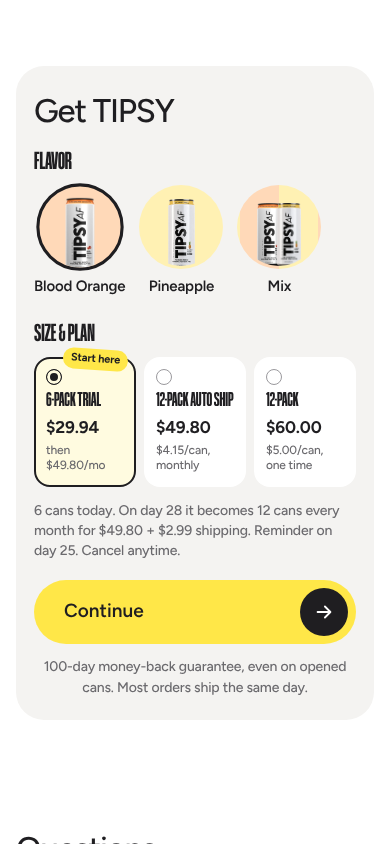
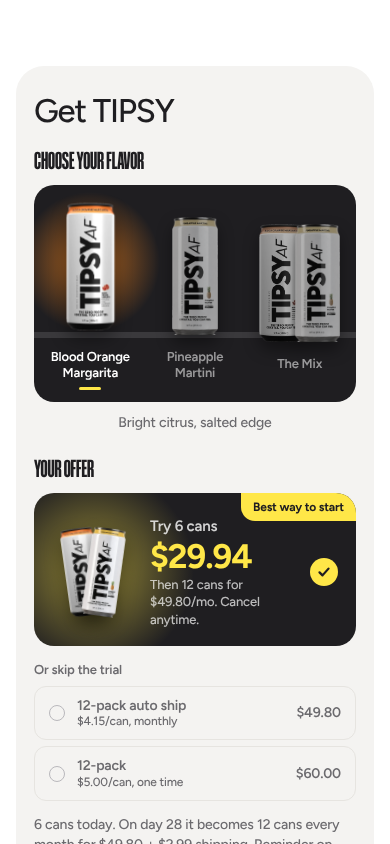
v3: dark shelf flavor picker as default, with motion
Cans rise onto the shelf when the buy box scrolls in or the checkout
opens; switching flavors pops the can, flares the glow, ripples a ring
and slides the underline; the chosen can floats. Respects reduced motion.
Removes the preview design switcher.

Claude-Session: https://claude.ai/code/session_014FM66vq5zwtojFZzRdgT7G

diff --git a/tipsy-af-v3/preview/index.html b/tipsy-af-v3/preview/index.html
@@ -635,13 +635,14 @@ body { margin: 0; background: #fff; }
 .tpm-shelf__opt { position: relative; display: block; cursor: pointer; }
 .tpm-shelf__box { position: relative; display: grid; justify-items: center; text-align: center; padding-bottom: 12px; }
 .tpm-shelf__box::before { content: ""; position: absolute; left: 50%; bottom: 70px; width: 140px; height: 140px; margin-left: -70px; border-radius: 50%; background: radial-gradient(closest-side, var(--f-deep), rgba(0,0,0,0)); opacity: 0; transition: opacity .25s; }
-.tpm-shelf__img { position: relative; z-index: 1; height: 132px; display: flex; align-items: flex-end; justify-content: center; transition: transform .3s cubic-bezier(.3,1.5,.5,1), filter .25s; filter: grayscale(.6) brightness(.7); }
+.tpm-shelf__img { position: relative; z-index: 1; height: 132px; display: flex; align-items: flex-end; justify-content: center; transition: translate .35s cubic-bezier(.3,1.5,.5,1), scale .35s cubic-bezier(.3,1.5,.5,1), filter .3s; filter: grayscale(.6) brightness(.7); }
 .tpm-shelf__img > img, .tpm-shelf__img .tpm-can-pair img { height: 118px; width: auto; filter: drop-shadow(0 8px 8px rgba(0,0,0,.4)); }
 .tpm-shelf__name { position: relative; z-index: 1; margin-top: 14px; min-height: 34px; font-size: 13px; font-weight: 600; line-height: 1.25; color: rgba(255,255,255,.55); padding: 0 4px; }
 .tpm-shelf__opt input:checked + .tpm-shelf__box::before { opacity: .7; }
-.tpm-shelf__opt input:checked + .tpm-shelf__box .tpm-shelf__img { transform: translateY(-10px) scale(1.08); filter: none; }
+.tpm-shelf__opt input:checked + .tpm-shelf__box .tpm-shelf__img { translate: 0 -10px; scale: 1.08; filter: none; }
 .tpm-shelf__opt input:checked + .tpm-shelf__box .tpm-shelf__name { color: #fff; }
-.tpm-shelf__opt input:checked + .tpm-shelf__box .tpm-shelf__name::after { content: ""; display: block; width: 22px; height: 3px; border-radius: 3px; background: var(--tpm-accent); margin: 6px auto 0; }
+.tpm-shelf__name::after { content: ""; display: block; width: 0; height: 3px; border-radius: 3px; background: var(--tpm-accent); margin: 6px auto 0; transition: width .3s cubic-bezier(.3,1.5,.5,1); }
+.tpm-shelf__opt input:checked + .tpm-shelf__box .tpm-shelf__name::after { width: 22px; }
 .tpm-shelf__note { margin-top: 10px; font-size: 14px; color: var(--tpm-muted); text-align: center; }
 
 /* 3. Pop: full-color cards, can breaking out of the top */
@@ -700,6 +701,40 @@ body { margin: 0; background: #fff; }
 .tpm-flav--shelflight .tpm-shelf__name { color: #a49d91; }
 .tpm-flav--shelflight .tpm-shelf__opt input:checked + .tpm-shelf__box .tpm-shelf__name { color: var(--tpm-ink); }
 .tpm-flav--shelflight .tpm-shelf__opt input:checked + .tpm-shelf__box .tpm-shelf__name::after { background: var(--tpm-ink); }
+
+/* Shelf motion */
+.tpm-shelf__box::after { content: ""; position: absolute; left: 50%; bottom: 96px; width: 96px; height: 96px; margin-left: -48px; border-radius: 50%; border: 2px solid var(--f-deep); opacity: 0; pointer-events: none; }
+.tpm-shelf__note { transition: opacity .2s; }
+@media (prefers-reduced-motion: no-preference) {
+  /* Waiting to scroll into view */
+  .tpm-shelf.is-waiting .tpm-shelf__img > * { opacity: 0; transform: translateY(70px); }
+  /* Entry: cans rise onto the shelf one after another, then the glow comes up */
+  .tpm-shelf.is-enter .tpm-shelf__img > * { animation: tpm-can-rise .7s cubic-bezier(.2,1.3,.4,1) both; }
+  .tpm-shelf.is-enter .tpm-shelf__opt:nth-child(2) .tpm-shelf__img > * { animation-delay: .1s; }
+  .tpm-shelf.is-enter .tpm-shelf__opt:nth-child(3) .tpm-shelf__img > * { animation-delay: .2s; }
+  .tpm-shelf.is-enter .tpm-shelf__box::before { animation: tpm-glow-in .9s ease .45s both; }
+  .tpm-shelf.is-enter .tpm-shelf__name { animation: tpm-fade-up .5s ease both; animation-delay: .35s; }
+  /* Chosen can floats gently */
+  .tpm-shelf__opt input:checked + .tpm-shelf__box .tpm-shelf__img { animation: tpm-can-float 3.2s ease-in-out 1s infinite; }
+  /* Change: pop, glow flare, ring ripple, note swap */
+  .tpm-shelf__opt.is-pop input:checked + .tpm-shelf__box .tpm-shelf__img > * { animation: tpm-can-pop .6s cubic-bezier(.3,1.4,.5,1); }
+  .tpm-shelf__opt.is-pop input:checked + .tpm-shelf__box::before { animation: tpm-glow-flare .6s ease-out; }
+  .tpm-shelf__opt.is-pop input:checked + .tpm-shelf__box::after { animation: tpm-ring .7s ease-out; }
+  .tpm-shelf__note.is-swap { animation: tpm-fade-up .35s ease; }
+}
+@keyframes tpm-can-rise { from { opacity: 0; transform: translateY(70px); } to { opacity: 1; transform: none; } }
+@keyframes tpm-glow-in { from { opacity: 0; transform: scale(.4); } }
+@keyframes tpm-fade-up { from { opacity: 0; transform: translateY(6px); } to { opacity: 1; transform: none; } }
+@keyframes tpm-can-float { 0%, 100% { transform: translateY(0); } 50% { transform: translateY(-5px); } }
+@keyframes tpm-can-pop {
+  0% { transform: scale(.9) rotate(0); }
+  35% { transform: scale(1.14) rotate(-7deg) translateY(-6px); }
+  60% { transform: scale(.98) rotate(4deg); }
+  80% { transform: scale(1.03) rotate(-2deg); }
+  100% { transform: none; }
+}
+@keyframes tpm-glow-flare { 0% { opacity: .2; transform: scale(.5); } 45% { opacity: 1; transform: scale(1.2); } 100% { opacity: .7; transform: scale(1); } }
+@keyframes tpm-ring { 0% { opacity: .9; transform: scale(.4); } 100% { opacity: 0; transform: scale(1.9); } }
 
 </style>
 </head>
@@ -1278,14 +1313,14 @@ body { margin: 0; background: #fff; }
   }
 
   var pickerCount = 0;
-  // Flavor selector design direction: 'tiles' (chosen), 'shelf', 'pop' or 'chips'.
+  // Flavor selector design: 'shelf' (chosen), or 'tiles', 'pop', 'chips'.
   var FLAVOR_STYLES = ['tiles', 'shelf', 'pop', 'chips', 'shelflight'];
   var flavorStyle = String(DATA.flavorStyle || '').trim();
   if (MODE === 'preview') {
     var fq = (window.location.search.match(/[?&]flavor=(\w+)/) || [])[1];
     if (fq) flavorStyle = fq;
   }
-  if (FLAVOR_STYLES.indexOf(flavorStyle) < 0) flavorStyle = 'tiles';
+  if (FLAVOR_STYLES.indexOf(flavorStyle) < 0) flavorStyle = 'shelf';
 
   var CHECK = '<span class="tpm-fcheck" aria-hidden="true"></span>';
   function flavorRadio(n, f, cls, inner) {
@@ -1331,42 +1366,43 @@ body { margin: 0; background: #fff; }
     return flavorsHtml(n) + plansHtml(n) + '<p class="tpm-pick__terms" data-tpm-terms></p>';
   }
 
-  // Preview only: compare flavor selector directions.
-  if (MODE === 'preview') {
-    var fsw = document.createElement('div');
-    fsw.className = 'tpm-styleswitch';
-    fsw.setAttribute('role', 'group');
-    fsw.setAttribute('aria-label', 'Preview: flavor selector design');
-    fsw.innerHTML = '<span>Flavor picker</span>' + FLAVOR_STYLES.map(function (st, k) {
-      return '<button type="button" data-style="' + st + '">' + (k + 1) + '</button>';
-    }).join('');
-    root.appendChild(fsw);
-    var paintFsw = function () {
-      $all('button', fsw).forEach(function (b) { b.setAttribute('aria-pressed', b.getAttribute('data-style') === flavorStyle); });
-    };
-    fsw.addEventListener('click', function (e) {
-      var b = e.target.closest('button');
-      if (!b) return;
-      flavorStyle = b.getAttribute('data-style');
-      $all('[data-tpm-picker]').forEach(function (el) { el.innerHTML = pickerHtml(el.getAttribute('data-tpm-picker-n')); });
-      paintFsw();
-      sync();
-      if (window.history && history.replaceState) history.replaceState(null, '', '?flavor=' + flavorStyle + window.location.hash);
-    });
-    paintFsw();
-  }
 
   function renderPicker(el) {
     var n = ++pickerCount;
     el.setAttribute('data-tpm-picker-n', n);
     el.innerHTML = pickerHtml(n);
     el.addEventListener('change', function (e) {
-      if (e.target.name.indexOf('tpm-flavor-') === 0) state.flavor = e.target.value;
+      if (e.target.name.indexOf('tpm-flavor-') === 0) {
+        state.flavor = e.target.value;
+        popFlavor(e.target.closest('.tpm-shelf__opt'));
+      }
       if (e.target.name.indexOf('tpm-offer-') === 0) state.offer = e.target.value;
       sync();
     });
   }
   $all('[data-tpm-picker]').forEach(renderPicker);
+
+  // ---- Shelf animations: cans rise in on entry, chosen can pops on change ----
+  function restartClass(el, cls) {
+    if (!el) return;
+    el.classList.remove(cls);
+    void el.offsetWidth; // restart the CSS animation
+    el.classList.add(cls);
+  }
+  function popFlavor(opt) {
+    restartClass(opt, 'is-pop');
+    var shelf = opt && opt.closest('.tpm-shelf');
+    if (shelf) restartClass(shelf.parentNode.querySelector('[data-tpm-fnote]'), 'is-swap');
+  }
+  function enterShelf(scope) {
+    $all('.tpm-shelf', scope).forEach(function (sh) { restartClass(sh, 'is-enter'); });
+  }
+  if ('IntersectionObserver' in window) {
+    var shelfIo = new IntersectionObserver(function (entries) {
+      entries.forEach(function (en) { if (en.isIntersecting) { en.target.classList.remove('is-waiting'); restartClass(en.target, 'is-enter'); shelfIo.unobserve(en.target); } });
+    }, { threshold: 0.4 });
+    $all('.tpm-buy .tpm-shelf').forEach(function (sh) { sh.classList.add('is-waiting'); shelfIo.observe(sh); });
+  }
 
 
   // ---- Checkout sheet ----
@@ -1415,7 +1451,7 @@ body { margin: 0; background: #fff; }
     sheet.querySelector('[data-tpm-timeline]').hidden = state.offer !== 'trial';
   }
 
-  function showStep(n) {
+  function showStep(n, opened) {
     step = n;
     $all('[data-tpm-step]', sheet).forEach(function (s) { s.hidden = s.getAttribute('data-tpm-step') !== String(n); });
     $all('[data-tpm-stepdot]', sheet).forEach(function (d) {
@@ -1425,6 +1461,7 @@ body { margin: 0; background: #fff; }
       if (k === n) d.setAttribute('aria-current', 'step'); else d.removeAttribute('aria-current');
     });
     sheet.querySelector('[data-tpm-back]').style.visibility = n > 1 ? 'visible' : 'hidden';
+    if (n === 1 && opened) enterShelf(sheet);
     if (n === 2) { renderAddons(); renderRewards(); }
     if (n === 3) renderReview();
     errorEl.textContent = '';
@@ -1441,7 +1478,7 @@ body { margin: 0; background: #fff; }
     if (opts.offer) state.offer = opts.offer;
     if (typeof sheet.showModal === 'function') { if (!sheet.open) sheet.showModal(); } else sheet.setAttribute('open', '');
     document.documentElement.classList.add('tpm-lock');
-    showStep(opts.step || 1);
+    showStep(opts.step || 1, true);
   }
   function closeCheckout() {
     if (typeof sheet.close === 'function') sheet.close(); else sheet.removeAttribute('open');

diff --git a/tipsy-af-v3/src/page.css b/tipsy-af-v3/src/page.css
@@ -613,13 +613,14 @@
 .tpm-shelf__opt { position: relative; display: block; cursor: pointer; }
 .tpm-shelf__box { position: relative; display: grid; justify-items: center; text-align: center; padding-bottom: 12px; }
 .tpm-shelf__box::before { content: ""; position: absolute; left: 50%; bottom: 70px; width: 140px; height: 140px; margin-left: -70px; border-radius: 50%; background: radial-gradient(closest-side, var(--f-deep), rgba(0,0,0,0)); opacity: 0; transition: opacity .25s; }
-.tpm-shelf__img { position: relative; z-index: 1; height: 132px; display: flex; align-items: flex-end; justify-content: center; transition: transform .3s cubic-bezier(.3,1.5,.5,1), filter .25s; filter: grayscale(.6) brightness(.7); }
+.tpm-shelf__img { position: relative; z-index: 1; height: 132px; display: flex; align-items: flex-end; justify-content: center; transition: translate .35s cubic-bezier(.3,1.5,.5,1), scale .35s cubic-bezier(.3,1.5,.5,1), filter .3s; filter: grayscale(.6) brightness(.7); }
 .tpm-shelf__img > img, .tpm-shelf__img .tpm-can-pair img { height: 118px; width: auto; filter: drop-shadow(0 8px 8px rgba(0,0,0,.4)); }
 .tpm-shelf__name { position: relative; z-index: 1; margin-top: 14px; min-height: 34px; font-size: 13px; font-weight: 600; line-height: 1.25; color: rgba(255,255,255,.55); padding: 0 4px; }
 .tpm-shelf__opt input:checked + .tpm-shelf__box::before { opacity: .7; }
-.tpm-shelf__opt input:checked + .tpm-shelf__box .tpm-shelf__img { transform: translateY(-10px) scale(1.08); filter: none; }
+.tpm-shelf__opt input:checked + .tpm-shelf__box .tpm-shelf__img { translate: 0 -10px; scale: 1.08; filter: none; }
 .tpm-shelf__opt input:checked + .tpm-shelf__box .tpm-shelf__name { color: #fff; }
-.tpm-shelf__opt input:checked + .tpm-shelf__box .tpm-shelf__name::after { content: ""; display: block; width: 22px; height: 3px; border-radius: 3px; background: var(--tpm-accent); margin: 6px auto 0; }
+.tpm-shelf__name::after { content: ""; display: block; width: 0; height: 3px; border-radius: 3px; background: var(--tpm-accent); margin: 6px auto 0; transition: width .3s cubic-bezier(.3,1.5,.5,1); }
+.tpm-shelf__opt input:checked + .tpm-shelf__box .tpm-shelf__name::after { width: 22px; }
 .tpm-shelf__note { margin-top: 10px; font-size: 14px; color: var(--tpm-muted); text-align: center; }
 
 /* 3. Pop: full-color cards, can breaking out of the top */
@@ -678,3 +679,37 @@
 .tpm-flav--shelflight .tpm-shelf__name { color: #a49d91; }
 .tpm-flav--shelflight .tpm-shelf__opt input:checked + .tpm-shelf__box .tpm-shelf__name { color: var(--tpm-ink); }
 .tpm-flav--shelflight .tpm-shelf__opt input:checked + .tpm-shelf__box .tpm-shelf__name::after { background: var(--tpm-ink); }
+
+/* Shelf motion */
+.tpm-shelf__box::after { content: ""; position: absolute; left: 50%; bottom: 96px; width: 96px; height: 96px; margin-left: -48px; border-radius: 50%; border: 2px solid var(--f-deep); opacity: 0; pointer-events: none; }
+.tpm-shelf__note { transition: opacity .2s; }
+@media (prefers-reduced-motion: no-preference) {
+  /* Waiting to scroll into view */
+  .tpm-shelf.is-waiting .tpm-shelf__img > * { opacity: 0; transform: translateY(70px); }
+  /* Entry: cans rise onto the shelf one after another, then the glow comes up */
+  .tpm-shelf.is-enter .tpm-shelf__img > * { animation: tpm-can-rise .7s cubic-bezier(.2,1.3,.4,1) both; }
+  .tpm-shelf.is-enter .tpm-shelf__opt:nth-child(2) .tpm-shelf__img > * { animation-delay: .1s; }
+  .tpm-shelf.is-enter .tpm-shelf__opt:nth-child(3) .tpm-shelf__img > * { animation-delay: .2s; }
+  .tpm-shelf.is-enter .tpm-shelf__box::before { animation: tpm-glow-in .9s ease .45s both; }
+  .tpm-shelf.is-enter .tpm-shelf__name { animation: tpm-fade-up .5s ease both; animation-delay: .35s; }
+  /* Chosen can floats gently */
+  .tpm-shelf__opt input:checked + .tpm-shelf__box .tpm-shelf__img { animation: tpm-can-float 3.2s ease-in-out 1s infinite; }
+  /* Change: pop, glow flare, ring ripple, note swap */
+  .tpm-shelf__opt.is-pop input:checked + .tpm-shelf__box .tpm-shelf__img > * { animation: tpm-can-pop .6s cubic-bezier(.3,1.4,.5,1); }
+  .tpm-shelf__opt.is-pop input:checked + .tpm-shelf__box::before { animation: tpm-glow-flare .6s ease-out; }
+  .tpm-shelf__opt.is-pop input:checked + .tpm-shelf__box::after { animation: tpm-ring .7s ease-out; }
+  .tpm-shelf__note.is-swap { animation: tpm-fade-up .35s ease; }
+}
+@keyframes tpm-can-rise { from { opacity: 0; transform: translateY(70px); } to { opacity: 1; transform: none; } }
+@keyframes tpm-glow-in { from { opacity: 0; transform: scale(.4); } }
+@keyframes tpm-fade-up { from { opacity: 0; transform: translateY(6px); } to { opacity: 1; transform: none; } }
+@keyframes tpm-can-float { 0%, 100% { transform: translateY(0); } 50% { transform: translateY(-5px); } }
+@keyframes tpm-can-pop {
+  0% { transform: scale(.9) rotate(0); }
+  35% { transform: scale(1.14) rotate(-7deg) translateY(-6px); }
+  60% { transform: scale(.98) rotate(4deg); }
+  80% { transform: scale(1.03) rotate(-2deg); }
+  100% { transform: none; }
+}
+@keyframes tpm-glow-flare { 0% { opacity: .2; transform: scale(.5); } 45% { opacity: 1; transform: scale(1.2); } 100% { opacity: .7; transform: scale(1); } }
+@keyframes tpm-ring { 0% { opacity: .9; transform: scale(.4); } 100% { opacity: 0; transform: scale(1.9); } }

diff --git a/tipsy-af-v3/src/page.js b/tipsy-af-v3/src/page.js
@@ -114,14 +114,14 @@
   }
 
   var pickerCount = 0;
-  // Flavor selector design direction: 'tiles' (chosen), 'shelf', 'pop' or 'chips'.
+  // Flavor selector design: 'shelf' (chosen), or 'tiles', 'pop', 'chips'.
   var FLAVOR_STYLES = ['tiles', 'shelf', 'pop', 'chips', 'shelflight'];
   var flavorStyle = String(DATA.flavorStyle || '').trim();
   if (MODE === 'preview') {
     var fq = (window.location.search.match(/[?&]flavor=(\w+)/) || [])[1];
     if (fq) flavorStyle = fq;
   }
-  if (FLAVOR_STYLES.indexOf(flavorStyle) < 0) flavorStyle = 'tiles';
+  if (FLAVOR_STYLES.indexOf(flavorStyle) < 0) flavorStyle = 'shelf';
 
   var CHECK = '<span class="tpm-fcheck" aria-hidden="true"></span>';
   function flavorRadio(n, f, cls, inner) {
@@ -167,42 +167,43 @@
     return flavorsHtml(n) + plansHtml(n) + '<p class="tpm-pick__terms" data-tpm-terms></p>';
   }
 
-  // Preview only: compare flavor selector directions.
-  if (MODE === 'preview') {
-    var fsw = document.createElement('div');
-    fsw.className = 'tpm-styleswitch';
-    fsw.setAttribute('role', 'group');
-    fsw.setAttribute('aria-label', 'Preview: flavor selector design');
-    fsw.innerHTML = '<span>Flavor picker</span>' + FLAVOR_STYLES.map(function (st, k) {
-      return '<button type="button" data-style="' + st + '">' + (k + 1) + '</button>';
-    }).join('');
-    root.appendChild(fsw);
-    var paintFsw = function () {
-      $all('button', fsw).forEach(function (b) { b.setAttribute('aria-pressed', b.getAttribute('data-style') === flavorStyle); });
-    };
-    fsw.addEventListener('click', function (e) {
-      var b = e.target.closest('button');
-      if (!b) return;
-      flavorStyle = b.getAttribute('data-style');
-      $all('[data-tpm-picker]').forEach(function (el) { el.innerHTML = pickerHtml(el.getAttribute('data-tpm-picker-n')); });
-      paintFsw();
-      sync();
-      if (window.history && history.replaceState) history.replaceState(null, '', '?flavor=' + flavorStyle + window.location.hash);
-    });
-    paintFsw();
-  }
 
   function renderPicker(el) {
     var n = ++pickerCount;
     el.setAttribute('data-tpm-picker-n', n);
     el.innerHTML = pickerHtml(n);
     el.addEventListener('change', function (e) {
-      if (e.target.name.indexOf('tpm-flavor-') === 0) state.flavor = e.target.value;
+      if (e.target.name.indexOf('tpm-flavor-') === 0) {
+        state.flavor = e.target.value;
+        popFlavor(e.target.closest('.tpm-shelf__opt'));
+      }
       if (e.target.name.indexOf('tpm-offer-') === 0) state.offer = e.target.value;
       sync();
     });
   }
   $all('[data-tpm-picker]').forEach(renderPicker);
+
+  // ---- Shelf animations: cans rise in on entry, chosen can pops on change ----
+  function restartClass(el, cls) {
+    if (!el) return;
+    el.classList.remove(cls);
+    void el.offsetWidth; // restart the CSS animation
+    el.classList.add(cls);
+  }
+  function popFlavor(opt) {
+    restartClass(opt, 'is-pop');
+    var shelf = opt && opt.closest('.tpm-shelf');
+    if (shelf) restartClass(shelf.parentNode.querySelector('[data-tpm-fnote]'), 'is-swap');
+  }
+  function enterShelf(scope) {
+    $all('.tpm-shelf', scope).forEach(function (sh) { restartClass(sh, 'is-enter'); });
+  }
+  if ('IntersectionObserver' in window) {
+    var shelfIo = new IntersectionObserver(function (entries) {
+      entries.forEach(function (en) { if (en.isIntersecting) { en.target.classList.remove('is-waiting'); restartClass(en.target, 'is-enter'); shelfIo.unobserve(en.target); } });
+    }, { threshold: 0.4 });
+    $all('.tpm-buy .tpm-shelf').forEach(function (sh) { sh.classList.add('is-waiting'); shelfIo.observe(sh); });
+  }
 
 
   // ---- Checkout sheet ----
@@ -251,7 +252,7 @@
     sheet.querySelector('[data-tpm-timeline]').hidden = state.offer !== 'trial';
   }
 
-  function showStep(n) {
+  function showStep(n, opened) {
     step = n;
     $all('[data-tpm-step]', sheet).forEach(function (s) { s.hidden = s.getAttribute('data-tpm-step') !== String(n); });
     $all('[data-tpm-stepdot]', sheet).forEach(function (d) {
@@ -261,6 +262,7 @@
       if (k === n) d.setAttribute('aria-current', 'step'); else d.removeAttribute('aria-current');
     });
     sheet.querySelector('[data-tpm-back]').style.visibility = n > 1 ? 'visible' : 'hidden';
+    if (n === 1 && opened) enterShelf(sheet);
     if (n === 2) { renderAddons(); renderRewards(); }
     if (n === 3) renderReview();
     errorEl.textContent = '';
@@ -277,7 +279,7 @@
     if (opts.offer) state.offer = opts.offer;
     if (typeof sheet.showModal === 'function') { if (!sheet.open) sheet.showModal(); } else sheet.setAttribute('open', '');
     document.documentElement.classList.add('tpm-lock');
-    showStep(opts.step || 1);
+    showStep(opts.step || 1, true);
   }
   function closeCheckout() {
     if (typeof sheet.close === 'function') sheet.close(); else sheet.removeAttribute('open');

diff --git a/tipsy-af-v3/README.md b/tipsy-af-v3/README.md
@@ -42,6 +42,11 @@ recommendations that use the Mix switch to Blood Orange automatically.
   "Best way to start" and a yellow check; the 12-packs sit below as quiet rows under "Or skip the trial".
   The earlier options remain as the theme setting **Offer layout** (`ticket`, `stamp`, `cards`) and can be
   previewed with `?offer=ticket` etc.
+- **Flavor picker (chosen: shelf):** the three cans stand on a dark shelf; the chosen can lifts into a
+  flavor-colored glow and floats gently. On entry (buy box scrolling into view, or the checkout opening)
+  the cans rise onto the shelf one after another. Switching flavors pops the new can (bounce + wiggle),
+  flares the glow, ripples a ring and slides in the name underline. All motion is skipped when the
+  visitor has reduced motion turned on. Other layouts remain as a hidden option (`?flavor=tiles|pop|chips`).
 - **Colors:** buy box, plan cards, flavor selection and add-on buttons use the brand charcoal/yellow
   (the light blue from the Bev reference is gone).
 - **Buy box:** round flavor selectors and size & plan cards (Bev-style); its button continues to
